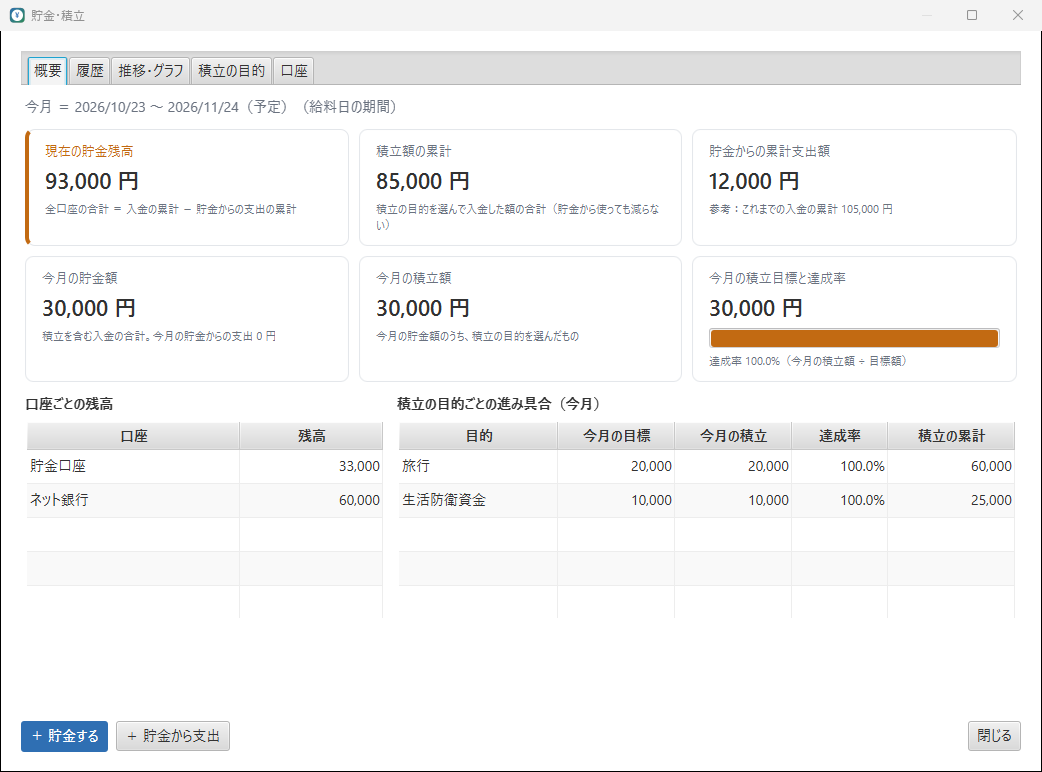
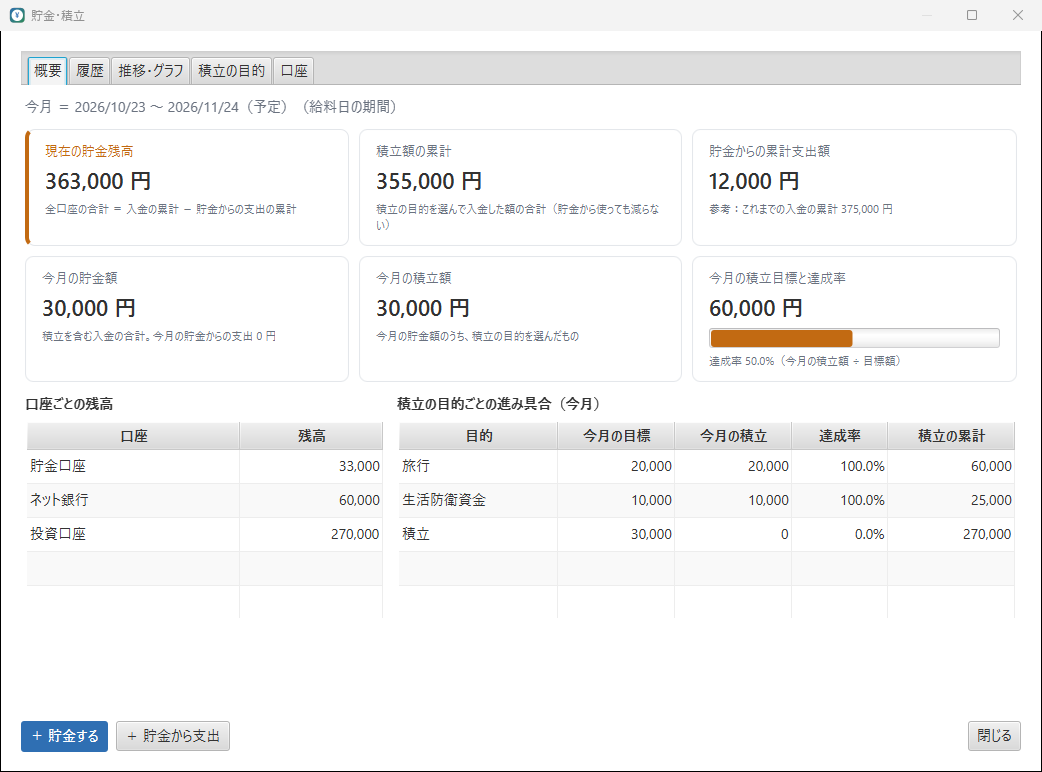
0.3.0 の画面でスクリーンショットを撮り直し、使い方を更新
- メイン画面・明細の入力・年間の収支・使い方・絞り込み・貯金・積立・推移・貯金の入力を撮り直し
- ポイント払いの画像を追加（画面一覧と使い方の「ポイント払い」）
- 画像の説明文（alt）とサイズを新しい画面に合わせる
- デモデータの作成スクリプトを V3（投資・積立の統合）・V4（ポイント払い）に対応

diff --git a/index.html b/index.html
@@ -18,7 +18,7 @@
   <link rel="preconnect" href="https://fonts.googleapis.com">
   <link rel="preconnect" href="https://fonts.gstatic.com" crossorigin>
   <link href="https://fonts.googleapis.com/css2?family=Noto+Sans+JP:wght@400;500;700&display=swap" rel="stylesheet">
-  <link rel="stylesheet" href="assets/css/style.css?v=20261024a">
+  <link rel="stylesheet" href="assets/css/style.css?v=20261024b">
 </head>
 <body>
   <a class="skip-link" href="#main">本文へ移動</a>
@@ -66,8 +66,8 @@
           </ul>
         </div>
         <figure class="shot-frame">
-          <img src="assets/img/screens/main.png" width="1424" height="838"
-               alt="まねまね(MoneyManage) のメイン画面。期間 2026/09/25〜10/22 の収入・前月繰越・利用可能金額・固定費・変動費・投資・積立・貯金残高・貯金・残額のカードと、明細の一覧、カテゴリ別の支出グラフが表示されている">
+          <img src="assets/img/screens/main.png" width="1424" height="858"
+               alt="まねまね(MoneyManage) のメイン画面。期間 2026/09/25〜10/22 の収入・前月繰越・利用可能金額・固定費・変動費・貯金・積立・残額のカードと、明細の一覧、前月との比較・ポイントで得した額・カテゴリ別の支出が表示されている">
         </figure>
       </div>
     </section>
@@ -104,7 +104,7 @@
           <article class="feature">
             <span class="feature-icon" aria-hidden="true"><svg width="22" height="22" viewBox="0 0 24 24" fill="none" stroke="currentColor" stroke-width="1.8" stroke-linecap="round" stroke-linejoin="round"><path d="M4 20V10M10 20V4M16 20v-7M22 20H2"/></svg></span>
             <h3>カテゴリ別・年間の集計</h3>
-            <p>期間ごとのカテゴリ別の支出と前月比較、1月〜12月の年間収支を確認できます。</p>
+            <p>期間ごとのカテゴリ別の支出と前月比較、1月〜12月の年間収支、ポイントで得した額の累計を確認できます。</p>
           </article>
           <article class="feature">
             <span class="feature-icon" aria-hidden="true"><svg width="22" height="22" viewBox="0 0 24 24" fill="none" stroke="currentColor" stroke-width="1.8" stroke-linecap="round" stroke-linejoin="round"><rect x="4" y="3" width="16" height="18" rx="2"/><path d="M8 8l8 8M16 8l-8 8"/></svg></span>
@@ -141,22 +141,22 @@
         <div class="screens">
           <figure class="screen screen-wide">
             <button type="button" data-zoom="メイン画面">
-              <img src="assets/img/screens/main.png" width="1424" height="838" loading="lazy"
-                   alt="メイン画面。上部に期間、カードに収入・前月繰越・利用可能金額・固定費・変動費・投資・積立・貯金残高・貯金・残額、下に明細の一覧と分析パネル">
+              <img src="assets/img/screens/main.png" width="1424" height="858" loading="lazy"
+                   alt="メイン画面。上部に期間、カードに収入・前月繰越・利用可能金額・固定費・変動費・貯金・積立・残額、下に明細の一覧と、ポイントで得した額などの分析パネル">
             </button>
             <figcaption><strong>メイン画面</strong>期間の残額と、収入・支出の内訳、明細、カテゴリ別の支出を1画面で確認できます。</figcaption>
           </figure>
           <figure class="screen">
             <button type="button" data-zoom="明細の入力">
               <img src="assets/img/screens/entry.png" width="462" height="463" loading="lazy"
-                   alt="支出を追加する画面。種類・区分・日付・金額・項目・カテゴリ・支払方法・メモの入力欄">
+                   alt="支出を追加する画面。種類・区分・日付・金額・項目・カテゴリ・支払方法・支払元（ポイントを選択）・メモの入力欄">
             </button>
-            <figcaption><strong>明細の入力</strong>項目名を入力すると過去の内容から候補を表示します。</figcaption>
+            <figcaption><strong>明細の入力</strong>項目名は過去の内容から候補を表示。支払元でポイント・貯金口座も選べます。</figcaption>
           </figure>
           <figure class="screen">
             <button type="button" data-zoom="年間の収支">
-              <img src="assets/img/screens/year.png" width="1062" height="852" loading="lazy"
-                   alt="年間の収支の画面。収入合計・支出合計・収支と、1月〜12月の月別の表">
+              <img src="assets/img/screens/year.png" width="1092" height="852" loading="lazy"
+                   alt="年間の収支の画面。収入合計・支出合計・収支と、1月〜12月の月別の表（貯金から支出・ポイント払いの列を含む）">
             </button>
             <figcaption><strong>年間の収支</strong>1月〜12月の月別の収入・支出と年間の合計。</figcaption>
           </figure>
@@ -194,6 +194,20 @@
                    alt="貯金の推移の画面。期間ごとの貯金額・積立額・積立目標・貯金からの支出の表と棒グラフ、貯金残高の折れ線グラフ">
             </button>
             <figcaption><strong>貯金の推移</strong>期間ごと・年ごとの貯金額と積立目標、残高の推移をグラフで表示します。</figcaption>
+          </figure>
+          <figure class="screen screen-span2">
+            <button type="button" data-zoom="ポイント払い">
+              <img src="assets/img/screens/points.png" width="880" height="257" loading="lazy"
+                   alt="明細の一覧を「ポイント払い」で絞り込んだところ。ポイントで払ったコンビニ・ドラッグストアの明細と、ポイントで得した額（今月 1,420 円・累計 3,270 円）">
+            </button>
+            <figcaption><strong>ポイント払い</strong>ポイントで払った買い物は残額から差し引かず、「ポイントで得した額」として今月の合計と累計を表示します。</figcaption>
+          </figure>
+          <figure class="screen">
+            <button type="button" data-zoom="貯金の入力">
+              <img src="assets/img/screens/savings-entry.png" width="462" height="475" loading="lazy"
+                   alt="貯金の入力画面。日付・貯金額・貯金口座・積立の目的・貯金の種類・項目・メモ">
+            </button>
+            <figcaption><strong>貯金の入力</strong>貯金口座と積立の目的を選んで記録します。貯金した額は残額から差し引かれます。</figcaption>
           </figure>
         </div>
       </div>
@@ -364,7 +378,7 @@
     <img src="" alt="">
   </dialog>
 
-  <script src="assets/js/site-config.js?v=20261024a"></script>
-  <script src="assets/js/main.js?v=20261024a"></script>
+  <script src="assets/js/site-config.js?v=20261024b"></script>
+  <script src="assets/js/main.js?v=20261024b"></script>
 </body>
 </html>

diff --git a/guide.html b/guide.html
@@ -16,7 +16,7 @@
   <link rel="preconnect" href="https://fonts.googleapis.com">
   <link rel="preconnect" href="https://fonts.gstatic.com" crossorigin>
   <link href="https://fonts.googleapis.com/css2?family=Noto+Sans+JP:wght@400;500;700&display=swap" rel="stylesheet">
-  <link rel="stylesheet" href="assets/css/style.css?v=20261024a">
+  <link rel="stylesheet" href="assets/css/style.css?v=20261024b">
 </head>
 <body>
   <a class="skip-link" href="#main">本文へ移動</a>
@@ -116,7 +116,7 @@
         <section id="screen" aria-labelledby="h-screen">
           <h2 id="h-screen">メイン画面の見方</h2>
           <figure>
-            <img src="assets/img/screens/main.png" width="1424" height="838" loading="lazy" alt="メイン画面">
+            <img src="assets/img/screens/main.png" width="1424" height="858" loading="lazy" alt="メイン画面">
             <figcaption>メイン画面（金額は説明用の架空のデータです）</figcaption>
           </figure>
           <div class="table-wrap">
@@ -158,7 +158,7 @@
           <h2 id="h-entries">明細の登録・編集</h2>
           <p>「+ 支出」または「+ 収入」を押して入力し、「保存」を押します。</p>
           <figure>
-            <img src="assets/img/screens/entry.png" width="462" height="463" loading="lazy" alt="支出を追加する画面">
+            <img src="assets/img/screens/entry.png" width="462" height="463" loading="lazy" alt="支出を追加する画面。支払元に「ポイント（残額から引かない）」を選んでいる">
           </figure>
           <ul>
             <li><strong>区分</strong> … 支出は「固定費／変動費」、収入は「固定／変動」（貯金・積立は「+ 貯金」から登録します）。</li>
@@ -175,6 +175,10 @@
           <p class="callout">電子マネー（PayPay・交通系 IC など）は「チャージした金額」を支出として登録し、カテゴリを「電子マネーチャージ」にします。チャージ残高から払った買い物は、二重になるため登録しません。</p>
           <h3 id="points">ポイント払い</h3>
           <p>楽天ポイント・dポイントなどで支払った買い物は、支払元を「ポイント（残額から引かない）」にして登録します。</p>
+          <figure>
+            <img src="assets/img/screens/points.png" width="880" height="257" loading="lazy" alt="明細の一覧を「ポイント払い」で絞り込んだところ。ポイントで払った明細（区分は紫の帯の「ポイント払い」）と、右側の「ポイントで得した額」（今月 1,420 円・累計 3,270 円）">
+            <figcaption>「ポイント払い」で絞り込んだ明細と、ポイントで得した額</figcaption>
+          </figure>
           <ul>
             <li>家計のお金は減らないため、残額・支出合計・カテゴリ別の支出には含めません。</li>
             <li>明細一覧では区分が「ポイント払い」（紫の帯）になります。</li>
@@ -204,7 +208,7 @@
           <h3>年間の収支</h3>
           <p>メニュー「集計」→「年間の収支…」で、1月1日〜12月31日の収入合計・支出合計・収支と、月別の表を確認できます。給料日の期間ではなく、明細の日付で集計します（繰越は含みません）。支出合計には貯金への入金を含みます。「貯金から支出」「ポイント払い」は家計の収支に含めない参考の列です。</p>
           <figure>
-            <img src="assets/img/screens/year.png" width="1062" height="852" loading="lazy" alt="年間の収支の画面">
+            <img src="assets/img/screens/year.png" width="1092" height="852" loading="lazy" alt="年間の収支の画面">
           </figure>
         </section>
 
@@ -388,7 +392,7 @@
     </div>
   </footer>
 
-  <script src="assets/js/site-config.js?v=20261024a"></script>
-  <script src="assets/js/main.js?v=20261024a"></script>
+  <script src="assets/js/site-config.js?v=20261024b"></script>
+  <script src="assets/js/main.js?v=20261024b"></script>
 </body>
 </html>

diff --git a/404.html b/404.html
@@ -9,7 +9,7 @@
   <link rel="preconnect" href="https://fonts.googleapis.com">
   <link rel="preconnect" href="https://fonts.gstatic.com" crossorigin>
   <link href="https://fonts.googleapis.com/css2?family=Noto+Sans+JP:wght@400;500;700&display=swap" rel="stylesheet">
-  <link rel="stylesheet" href="assets/css/style.css?v=20261024a">
+  <link rel="stylesheet" href="assets/css/style.css?v=20261024b">
 </head>
 <body>
   <header class="site-header">

diff --git a/tools/make_demo_db.py b/tools/make_demo_db.py
@@ -2,8 +2,10 @@
 スクリーンショット撮影用のデモデータ（架空）を作る。
 
 使い方:
-  python make_demo_db.py <アプリのソースの V1__init.sql> <出力する .db> [<V2__savings.sql>]
+  python make_demo_db.py <アプリのソースの V1__init.sql> <出力する .db> [<V2__savings.sql> [<V3__merge_investment.sql> [<V4__point_payment.sql>]]]
   V2 を指定すると、貯金・積立のデータ（口座・積立の目的・入金・貯金からの支出）も入れる。
+  V3 を指定すると、投資・積立の明細と固定費が「投資口座」への積立に移る（アプリの更新と同じ処理）。
+  V4 を指定すると、ポイント払いの明細も入れる。
 アプリは -PkakeiboDb=<出力した .db> を付けて起動する（本番のデータには触れない）。
 """
 import sqlite3
@@ -12,6 +14,8 @@ from datetime import date, timedelta
 
 schema, out = sys.argv[1], sys.argv[2]
 savings_schema = sys.argv[3] if len(sys.argv) > 3 else None
+merge_schema = sys.argv[4] if len(sys.argv) > 4 else None
+points_schema = sys.argv[5] if len(sys.argv) > 5 else None
 db = sqlite3.connect(out)
 db.executescript(open(schema, encoding="utf-8").read())
 now = "2026-10-20T10:00:00"
@@ -101,5 +105,24 @@ if savings_schema:
     add("INCOME", 1, "2026-10-23", "給与", 250000, "給与")
     save("2026-10-23", 20000, "ネット銀行", "旅行")
     save("2026-10-23", 10000, "貯金口座", "生活防衛資金")
+
+if merge_schema:
+    # 毎月の投資・積立の固定費（V3 で「投資口座」への「貯金」の固定費になる）
+    db.execute("INSERT INTO fixed_cost(name, entry_type, amount, pay_day, category_id, payment_method_id, created_at,"
+               " updated_at) VALUES ('つみたて投資', 'INVESTMENT', 30000, 27, ?, ?, ?, ?)",
+               (cat("INVESTMENT", "積立"), pm("銀行振込"), now, now))
+    db.executescript(open(merge_schema, encoding="utf-8").read())
+    db.execute("INSERT INTO schema_version VALUES (3, '投資・積立を貯金に統合', ?)", (now,))
+
+if points_schema:
+    db.executescript(open(points_schema, encoding="utf-8").read())
+    db.execute("INSERT INTO schema_version VALUES (4, 'ポイント払い', ?)", (now,))
+    # ポイントで支払った支出（家計の残額は減らさない）
+    for d, title, amount, category in [("2026-08-30", "カフェ", 650, "食費"), ("2026-09-10", "日用品", 1200, "買い物"),
+                                       ("2026-10-06", "コンビニ", 540, "食費"),
+                                       ("2026-10-09", "ドラッグストア", 880, "買い物")]:
+        db.execute("INSERT INTO entry(entry_type, is_fixed, entry_date, title, amount, category_id, paid_with_points,"
+                   " created_at, updated_at) VALUES ('EXPENSE', 0, ?, ?, ?, ?, 1, ?, ?)",
+                   (d, title, amount, cat("EXPENSE", category), now, now))
 db.commit()
 print("entries:", db.execute("SELECT COUNT(*) FROM entry").fetchone()[0])
